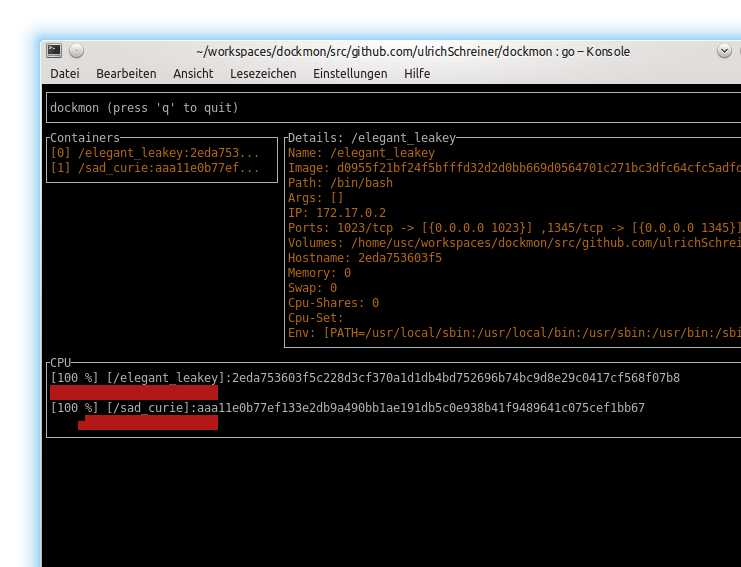
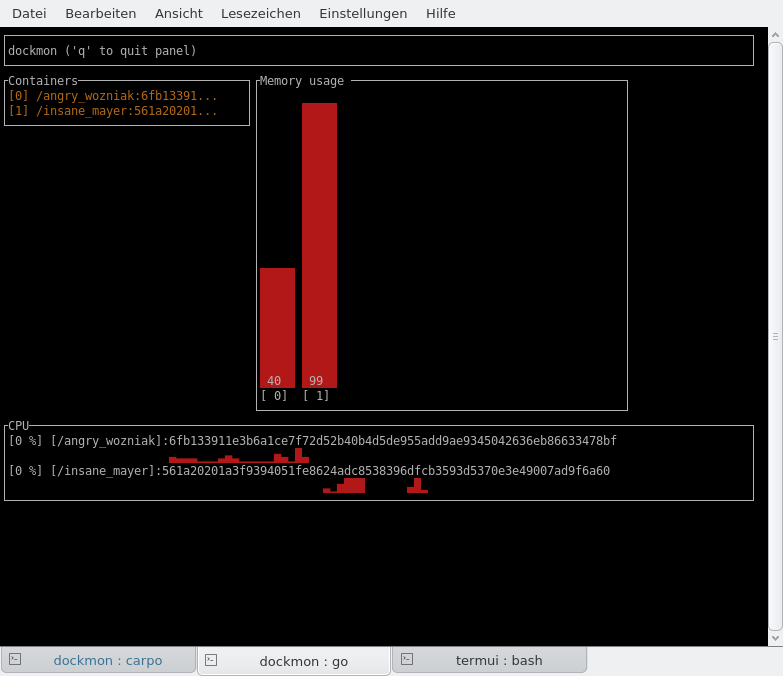
show details in separate pane

diff --git a/main.go b/main.go
@@ -18,8 +18,8 @@ var (
 	containerDetailsIndex = 0
 	containerDetailsId    = ""
 	statsData             = make(map[string][]*dockerclient.Stats)
-	columns               = 0
 	lock                  sync.Mutex
+	uiStack               []*ui.Grid
 )
 
 type DockerDrawer func(*dockerclient.DockerClient)
@@ -28,7 +28,8 @@ func dockerStats(id string, stats *dockerclient.Stats, errs chan error, data ...
 	lock.Lock()
 	defer lock.Unlock()
 	dat, _ := statsData[id]
-	if len(dat) > (columns - 2) {
+	// if we have more stats than visible columns in console, scroll.
+	if len(dat) > (ui.Body.Width - 2) {
 		dat = dat[1:]
 	}
 	if len(dat) > 0 && dat[len(dat)-1].Read == stats.Read {
@@ -179,18 +180,17 @@ func ContainerCpu() (DockerDrawer, ui.GridBufferer) {
 }
 
 func ContainerMemory() (DockerDrawer, ui.GridBufferer) {
-	mem := ui.NewMBarChart()
-	mem.Border.Label = "Memory usage (red=used, green=free)"
+	mem := ui.NewBarChart()
+	mem.Border.Label = "Memory usage "
 	mem.Height = 23
 	mem.BarWidth = 5
-	mem.BarColor[0] = ui.ColorRed
-	mem.BarColor[1] = ui.ColorGreen
+	mem.SetMax(100)
+	mem.BarColor = ui.ColorRed
 	return func(dc *dockerclient.DockerClient) {
 		var labels []string
 		var used []int
-		var free []int
 		for i, c := range allcontainers {
-			labels = append(labels, fmt.Sprintf("[%d]", i))
+			labels = append(labels, fmt.Sprintf("[%2d]", i))
 			dat, _ := statsData[c.Id]
 			if len(dat) > 1 {
 				last := dat[len(dat)-1]
@@ -198,12 +198,10 @@ func ContainerMemory() (DockerDrawer, ui.GridBufferer) {
 				memlim := last.MemoryStats.Limit
 				memusedP := int(100 * memused / memlim)
 				used = append(used, memusedP)
-				free = append(free, 100-memusedP)
 			}
 		}
 		mem.DataLabels = labels
-		mem.Data[0] = used
-		mem.Data[1] = free
+		mem.Data = used
 	}, mem
 }
 
@@ -255,24 +253,16 @@ func main() {
 
 	drawers = append(drawers, containerlist, containerDetails, cpuList, memUsg)
 
-	title := ui.NewPar("dockmon (press 'q' to quit)")
+	title := ui.NewPar("dockmon ('q' to quit panel)")
 	title.Height = 3
 	title.HasBorder = true
 
-	ui.Body.AddRows(
-		ui.NewRow(
-			ui.NewCol(12, 0, title)),
-		ui.NewRow(
-			ui.NewCol(4, 0, uiCntList),
-			ui.NewCol(8, 0, uiCntDets)),
-		ui.NewRow(
-			ui.NewCol(12, 0, uiCpus)),
-		ui.NewRow(
-			ui.NewCol(6, 0, uiMem)))
+	mainGrid := mainPanel(title, uiCntList, uiCpus, uiMem)
+	detailsGrid := detailsPanel(title, uiCntDets)
 
-	// calculate layout
+	ui.Body = pushPanel(mainGrid)
+	ui.Body.Width = ui.TermWidth()
 	ui.Body.Align()
-	columns = ui.Body.Width
 
 	evt := ui.EventCh()
 
@@ -280,10 +270,14 @@ func main() {
 		select {
 		case e := <-evt:
 			if e.Type == ui.EventKey && e.Ch == 'q' {
-				return
+				_, err := popPanel()
+				if err != nil {
+					return
+				}
 			}
 			if e.Type == ui.EventKey && e.Ch >= '0' && e.Ch <= '9' {
 				containerDetailsIndex = int(e.Ch - '0')
+				pushPanel(detailsGrid)
 			}
 			if e.Type == ui.EventResize {
 				ui.Body.Width = ui.TermWidth()
@@ -294,9 +288,55 @@ func main() {
 				d(docker)
 			}
 			ui.Body.Align()
-			columns = ui.Body.Width
 			ui.Render(ui.Body)
 			time.Sleep(time.Second / 2)
 		}
 	}
+}
+
+func pushPanel(p *ui.Grid) *ui.Grid {
+	uiStack = append(uiStack, p)
+	ui.Body = p
+	ui.Body.Width = ui.TermWidth()
+	ui.Body.Align()
+	return p
+}
+
+func popPanel() (*ui.Grid, error) {
+	if len(uiStack) < 2 {
+		return nil, fmt.Errorf("no more panels in stack")
+	}
+	_, uiStack = uiStack[len(uiStack)-1], uiStack[:len(uiStack)-1]
+	last := uiStack[len(uiStack)-1]
+	ui.Body = last
+	ui.Body.Width = ui.TermWidth()
+	ui.Body.Align()
+	return last, nil
+}
+
+func mainPanel(title, cntList, cpus, mem ui.GridBufferer) *ui.Grid {
+	p := &ui.Grid{}
+
+	p.AddRows(
+		ui.NewRow(
+			ui.NewCol(12, 0, title)),
+		ui.NewRow(
+			ui.NewCol(4, 0, cntList),
+			ui.NewCol(6, 0, mem)),
+		ui.NewRow(
+			ui.NewCol(12, 0, cpus)))
+
+	return p
+}
+
+func detailsPanel(title, details ui.GridBufferer) *ui.Grid {
+	p := &ui.Grid{}
+
+	p.AddRows(
+		ui.NewRow(
+			ui.NewCol(12, 0, title)),
+		ui.NewRow(
+			ui.NewCol(12, 0, details)))
+
+	return p
 }
